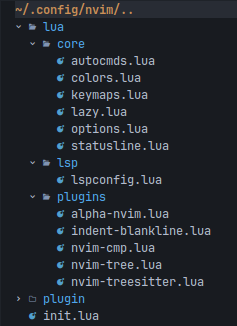
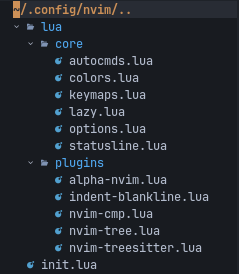
Update to new Nvim 0.11 LSP config:
See:
<https://github.com/neovim/nvim-lspconfig?tab=readme-ov-file#important-%EF%B8%8F>
<https://gpanders.com/blog/whats-new-in-neovim-0-11/>

- Remove `nvim/lua/lsp` folder, custom configuration should be placed on
`nvim/lsp` folder.
- Add `vim.lsp.enable()` on `init.lua` file

Changed region(s): [[0.0295, 0.0, 0.9156, 0.9927], [0.1181, 0.4964, 0.1477, 0.5255], [0.0591, 0.9051, 0.0886, 0.9343]]

diff --git a/README.md b/README.md
@@ -83,10 +83,6 @@ See: [nanotee/nvim-lua-guide: Where to put Lua files](https://github.com/nanotee
 
 * [statusline.lua](nvim/lua/core/statusline.lua): Statusline configuration file
 
-`/nvim/lua/lsp`
-
-* [lspconfig.lua](nvim/lua/lsp/lspconfig.lua): LSP configuration (language servers, keybinding)
-
 `/nvim/lua/plugins`
 
 * [alpha-nvim.lua](nvim/lua/plugins/alpha-nvim.lua): Dashboard
@@ -101,7 +97,7 @@ See: [nanotee/nvim-lua-guide: Where to put Lua files](https://github.com/nanotee
 
 ## Installation
 
-1. Install [Neovim v0.10.x](https://github.com/neovim/neovim/releases/latest).
+1. Install [Neovim v0.11.x](https://github.com/neovim/neovim/releases/latest).
 
 2. Install [Nerd Fonts](https://www.nerdfonts.com/font-downloads), (the font of the screenshots are `JetBrainsMono Nerd Font`).
 
@@ -155,7 +151,7 @@ sudo npm install -g \
 
 3. Open a source file of one of the supported languages with Neovim, and run command [:LspInfo](https://github.com/neovim/nvim-lspconfig?tab=readme-ov-file#commands) for verify the LSP support.
 
-See: [nvim-lspconfig - Quickstart](https://github.com/neovim/nvim-lspconfig?tab=readme-ov-file#quickstart)
+See: [nvim-lspconfig - Quickstart](https://github.com/neovim/nvim-lspconfig/tree/master?tab=readme-ov-file#quickstart)
 
 ### Languages Currently Supported
 
@@ -171,7 +167,7 @@ HTML, CSS, JSON - [vscode-langservers-extracted](https://github.com/neovim/nvim-
 
 JavaScript, TypeScript - [ts_ls](https://github.com/neovim/nvim-lspconfig/blob/master/doc/configs.md#ts_ls)
 
-See: [nvim-lspconfig #doc/LSP configs](https://github.com/neovim/nvim-lspconfig/blob/master/doc/configs.md)
+LSP server configs: [nvim-lspconfig #doc/LSP configs](https://github.com/neovim/nvim-lspconfig/blob/master/doc/configs.md)
 
 ## Appearance
 
